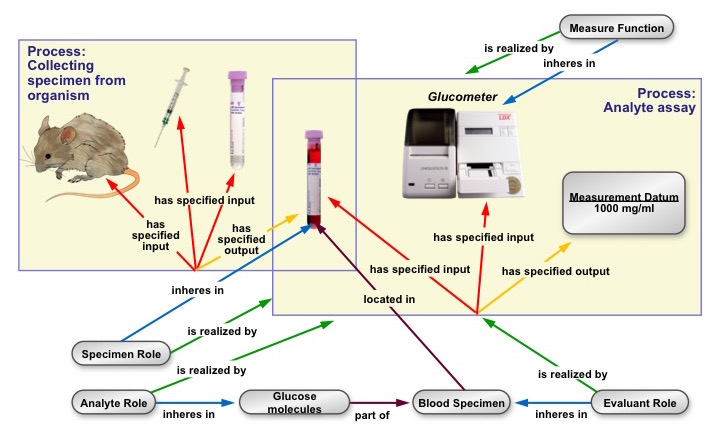
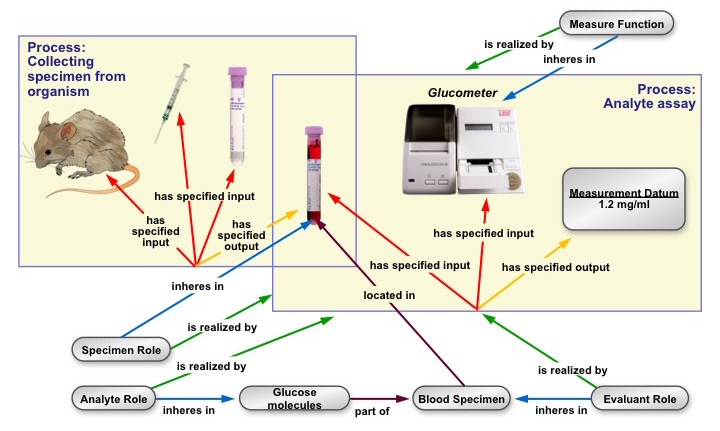
Update to use "12 mg/ml" as output value

diff --git a/shortcuts.md b/shortcuts.md
@@ -29,7 +29,7 @@ Then we would have a table of assays and results.
 
 assay           | protocol   | evaluant         | result | unit
 ----------------|------------|------------------|--------|------
-analyte assay 1 | protocol 2 | blood specimen 1 | 1000   | mg/ml
+analyte assay 1 | protocol 2 | blood specimen 1 | 1.2    | mg/ml
 
 In both of these tables we would also include an investigator, timestamp, and other information.
 
@@ -51,7 +51,7 @@ A simple translation of these tables to linked data would look like this:
       type: assay
       executes protocol: protocol 2
       has evaluant: blood specimen 1
-      has measured value: 1000
+      has measured value: 1.2
       has measured unit: mg/ml
 
 This is a convenient "shape" to query with SPARQL, but a long way from the detailed modelling in [glucose.md](glucose.md).

diff --git a/glucose.md b/glucose.md
@@ -79,6 +79,6 @@ The measurement datum is linked to a scalar value specification, with the value 
 
     value specification 1
       type: scalar value specification
-      has specified value: "100"^^xsd:real
+      has specified value: "1.2"^^xsd:real
       has measurement unit label: milligram per milliliter
 
